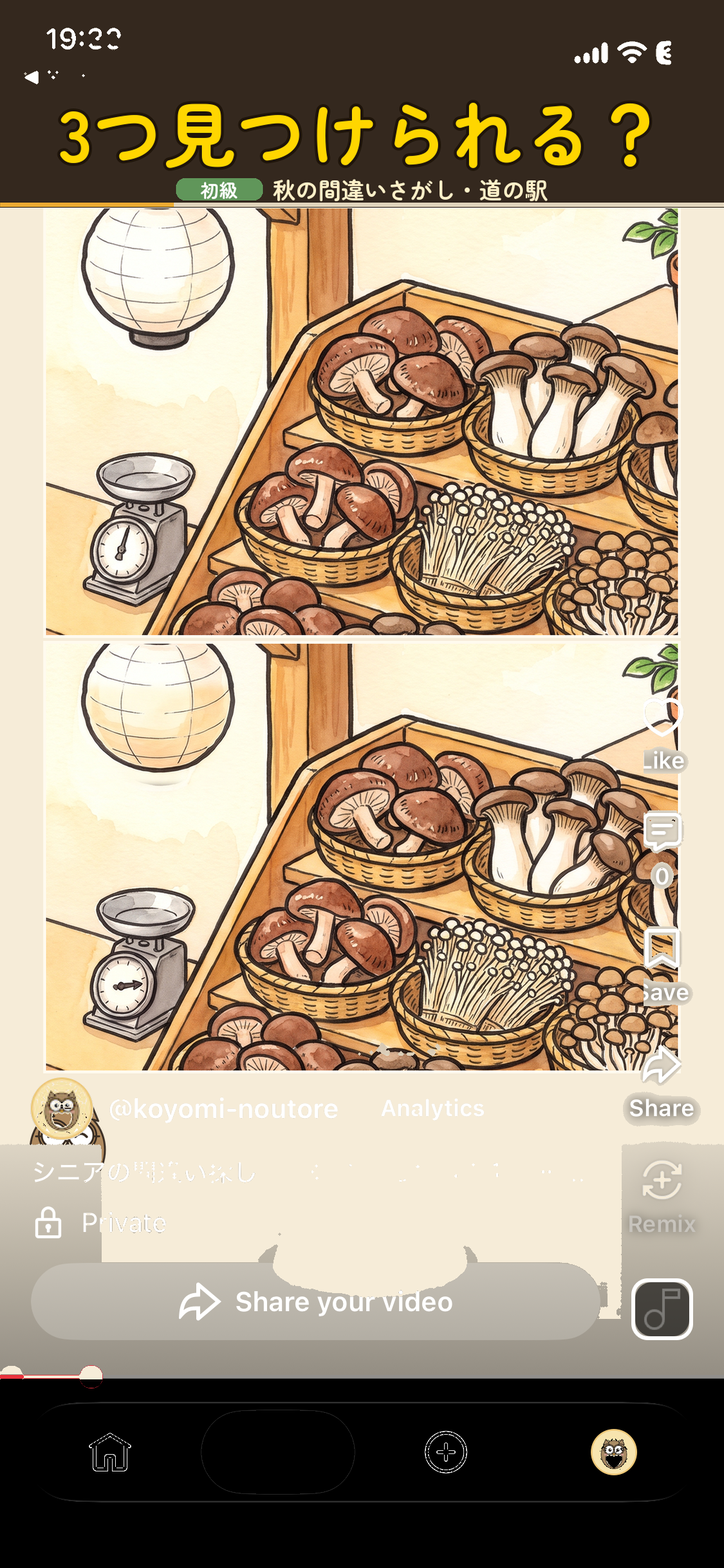
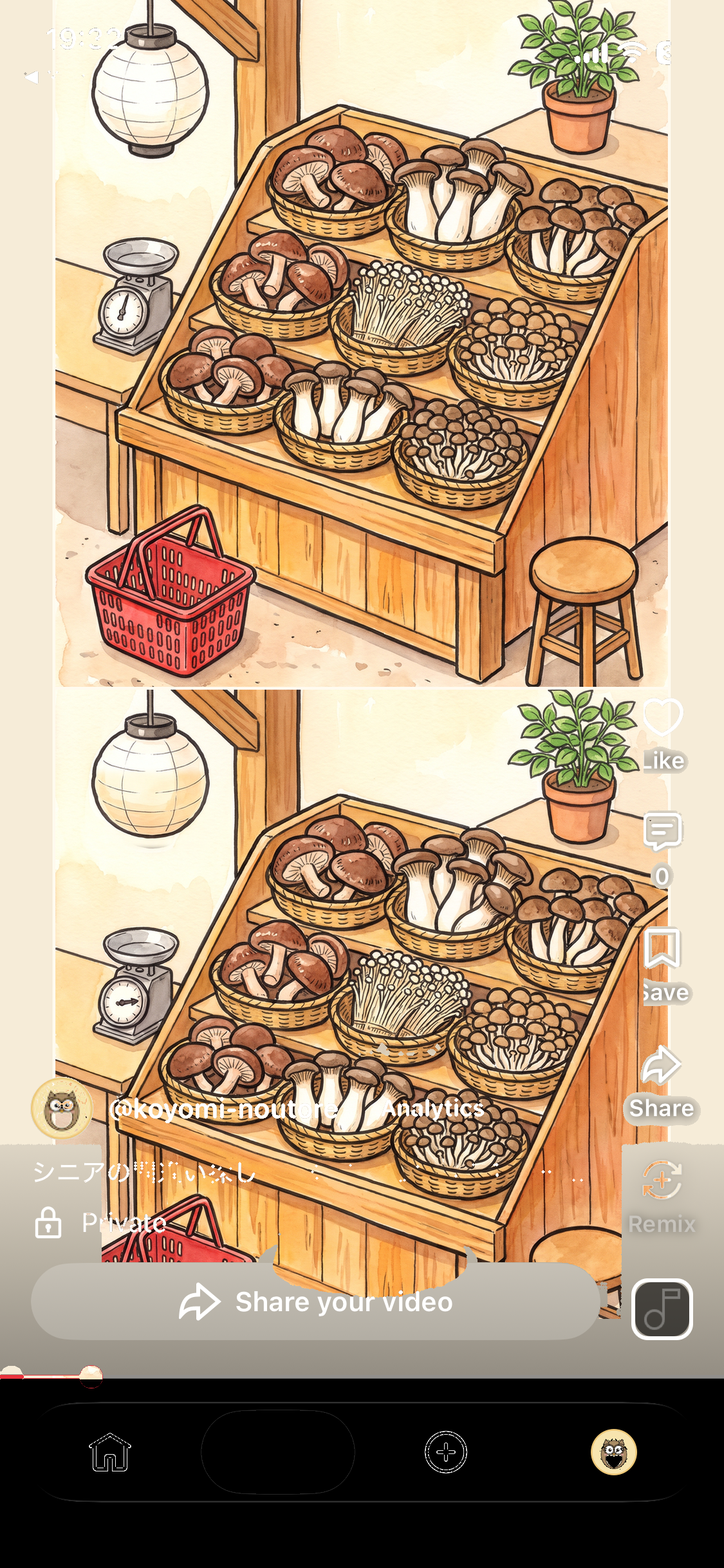
ショートの画面の作りを初期の形に戻す（2026-11-18 夜 CEO決定・最新）：絵だけ・最初と最後に暗い幕と大きな文字。第8回「道の駅」の試作
Claude-Session: https://claude.ai/code/session_01RF3BnfrPSRk1U21VXW6Yry

diff --git a/scripts/ep_short.py b/scripts/ep_short.py
@@ -22,16 +22,19 @@ W, H, FPS = 1080, 1920, 30
 BG = (246, 236, 216)
 INK = (59, 47, 37)
 RED = (220, 30, 30)
-# 画面の作り（shorts.md「ショートの画面の作り（2026-11-18 夜 改訂）」）：iPhone（19.5:9）で高さいっぱいに表示され、左右が約36px切れ、上の約120pxに時刻が重なる
+# 画面の作り（shorts.md「ショートの画面の作り（2026-11-18 夜 CEO決定・最新）」）：初期の形（第1回の台所）に戻す。
+# 画面は絵だけ（上の文字の帯・こよみ先生・アイコンなし）。絵は2枚を上下に、画面に収まる範囲でいっぱい、左右中央。
+# 最初と最後だけ、画面全体に半透明の暗い幕をかけ、ど真ん中に大きな文字。文字は左右36px・上120pxにかからない。
 EDGE_X, TOP_UI = 36, 120
-TEXT_TOP, TEXT_BOTTOM = 120, 280          # 上の文字（問題文）は y 120〜280 に大きく中央
-PIC_TOP, PIC_BOTTOM = 290, 1490           # 絵は y 290 から。下のタイトル・右のボタンには重なってよい。こよみ先生（左下）の上で止める
-PIC_MAXW, GAP = 880, 12                   # 絵の幅は約860〜900px、左右中央
-# 絵の大きさと切り抜きは問ごとに setup で決める（違い3つが入る範囲で横長に切り抜く）
-PW, PH, PX = PIC_MAXW, 590, (W - PIC_MAXW) // 2
-YS = {"a": PIC_TOP, "b": PIC_TOP + 590 + GAP}
+PH = H // 2                  # 8:9 の絵を上下2枚で高さいっぱい（960）
+PW = PH * 8 // 9             # 853
+PX = (W - PW) // 2
+YS = {"a": 0, "b": PH}
 CROP = None
-BAND_H = TEXT_BOTTOM
+VEIL_ALPHA = int(255 * 0.55)  # 暗い幕の不透明度（50〜60%）
+INTRO_VEIL = 3.6              # 最初の幕を出す秒（数秒で消す）
+HOOK = "1分で脳トレ"          # 最初の幕の訴求の一言（読み上げない）
+TEXT_MAXW = 800               # 幕の上の文字の幅の上限（中央 x140〜940。右のいいね等のボタンにかからない）
 LEVEL_COLOR = {"やさしい": (70, 140, 190), "初級": (96, 150, 90), "中級": (214, 128, 48), "上級": (176, 62, 52)}
 SR = 48000
 
@@ -40,9 +43,6 @@ DEFAULT = {"solve": 25.0, "intro_at": 0.3, "answer_gap": 3.2, "end_len": 8.0,
            # 2026-11-18 CEO指示（shorts.md）：どこを押すか具体的に言い、矢印で関連動画のリンクの位置を示す
            "end": "続きは長い動画で。左下をクリックして、挑戦してみてくださいね。",
            "end_title": "続きは 長い動画で", "end_sub": "左下を クリック！"}
-# こよみ先生は左下（x 約40〜220、y 約1500〜1680）に、最初から最後まで（shorts.md 2026-11-18 夜 改訂）
-OWL_SIZE = 160
-OWL_XY = (50, 1510)
 TEXT_CX = W / 2
 LINK_XY = (190, 1760)      # 関連動画のリンク（左下、y 約1700〜1800）。矢印の先
 
@@ -197,29 +197,8 @@ def setup(ep, work, fontp):
     CTX["Q"] = ans
     CTX["voice"] = json.loads((Path(work) / SUB / "voice.json").read_text(encoding="utf-8"))
     CTX["lines"], CTX["end_at"], CTX["total"] = lines(ep)
-    global PW, PH, PX, YS, CROP
-    # 違い3つが入る範囲（＋余白）を、表示の枠（幅 PIC_MAXW・高さは2枚で PIC_TOP〜PIC_BOTTOM）の縦横比で横長に切り抜く
-    cx0, cy0, cx1, cy1 = ans["content_px"]
-    bx = [a_["box_px"] for a_ in ans["answers"]]
-    m = 90
-    x0, y0 = max(cx0, min(b_[0] for b_ in bx) - m), max(cy0, min(b_[1] for b_ in bx) - m)
-    x1, y1 = min(cx1, max(b_[2] for b_ in bx) + m), min(cy1, max(b_[3] for b_ in bx) + m)
-    maxh = (PIC_BOTTOM - PIC_TOP - GAP) // 2
-    asp = PIC_MAXW / maxh
-    w, h = x1 - x0, y1 - y0
-    if w / h < asp:
-        w = min(cx1 - cx0, h * asp)
-    else:
-        h = min(cy1 - cy0, w / asp)
-    mx, my = (x0 + x1) / 2, (y0 + y1) / 2
-    X0 = min(max(cx0, mx - w / 2), cx1 - w); Y0 = min(max(cy0, my - h / 2), cy1 - h)
-    CROP = (int(X0), int(Y0), int(X0 + w), int(Y0 + h))
-    if w / h >= asp:
-        PW, PH = PIC_MAXW, int(round(PIC_MAXW * h / w))
-    else:
-        PH, PW = maxh, int(round(maxh * w / h))
-    PX = (W - PW) // 2
-    YS = {"a": PIC_TOP, "b": PIC_TOP + PH + GAP}
+    global CROP
+    CROP = tuple(ans["content_px"])      # 絵は切り抜かずに全体を出す
     pics = {}
     for side in "ab":
         im = Image.open(Path(ep) / f"q{q}_{side}.png").convert("RGB").crop(CROP)
@@ -229,9 +208,9 @@ def setup(ep, work, fontp):
         base.paste(pics[side], (PX, y))
         ImageDraw.Draw(base).rectangle((PX - 4, y - 4, PX + PW + 3, y + PH + 3), outline=(255, 250, 238), width=4)
     CTX["base"] = base
-    owl = Path(work) / "owl" / "koyomi_smile.png"
-    CTX["owl"] = Image.open(owl).convert("RGBA").resize((300, 300), Image.LANCZOS) if owl.exists() else None
-    CTX["owl_s"] = CTX["owl"].resize((OWL_SIZE, OWL_SIZE), Image.LANCZOS) if CTX["owl"] else None
+    # 幕の上の大きな文字は、サムネと同じ太い角ゴシック（Noto Sans CJK JP Black）
+    import thumb_v3
+    CTX["bold"] = thumb_v3.F
 
 
 def circle_box(a, side):
@@ -268,47 +247,48 @@ def current_sub(t):
     return None
 
 
+def bold(size):
+    return ImageFont.truetype(CTX["bold"], size)
+
+
+def veil(im, lines, alpha, arrow_t=None):
+    """画面全体に半透明の暗い幕をかけ、ど真ん中に大きな文字を出す。lines = [(文字, 大きさ, 色), ...]。"""
+    layer = Image.new("RGBA", (W, H), (0, 0, 0, int(VEIL_ALPHA * alpha)))
+    ld = ImageDraw.Draw(layer)
+    a = int(255 * alpha)
+    hs = [sz for _, sz, _ in lines]
+    total = sum(hs) + 40 * (len(lines) - 1)
+    y = H / 2 - total / 2
+    for s_, sz, colr in lines:
+        f = bold(sz)
+        while ld.textlength(s_, font=f) > TEXT_MAXW:      # 左右36pxと、右のボタン（x900〜）にかからないように
+            sz -= 4; f = bold(sz)
+        cy = y + sz / 2
+        ld.text((W / 2, cy), s_, font=f, fill=colr + (a,), anchor="mm", stroke_width=6, stroke_fill=(0, 0, 0, a))
+        CTX.setdefault("drawn", []).append(("文字:" + s_, ld.textbbox((W / 2, cy), s_, font=f, anchor="mm", stroke_width=6)))
+        y += sz + 40
+    im = Image.alpha_composite(im.convert("RGBA"), layer)
+    if arrow_t is not None and alpha > 0.9:   # 左下の関連動画のリンクを指す矢印（ゆっくり動かして目を引く）
+        d2 = ImageDraw.Draw(im)
+        wig = 14 * math.sin(2 * math.pi * arrow_t / 1.0)
+        tx, ty = LINK_XY[0] + 50 + wig * 0.7, LINK_XY[1] - 40 + wig * 0.7
+        sx, sy = 560, 1280
+        ang = math.atan2(ty - sy, tx - sx)
+        hx, hy = tx - 90 * math.cos(ang), ty - 90 * math.sin(ang)
+        px, py = -math.sin(ang), math.cos(ang)
+        for wdt, col in ((46, (255, 255, 255)), (30, (230, 60, 30))):
+            d2.line((sx, sy, hx, hy), fill=col, width=wdt)
+            e = wdt / 30
+            d2.polygon([(tx + 8 * (e - 1) * math.cos(ang), ty + 8 * (e - 1) * math.sin(ang)),
+                        (hx + 54 * e * px, hy + 54 * e * py), (hx - 54 * e * px, hy - 54 * e * py)], fill=col)
+    return im.convert("RGB")
+
+
 def render(t):
     c = cfg()
     Q = CTX["Q"]
     im = CTX["base"].copy()
     d = ImageDraw.Draw(im)
-    drawn = CTX.setdefault("drawn", [])    # 文字を書いた範囲（安全な範囲の判定に使う）
-    def text(xy, s, f, **kw):
-        d.text(xy, s, font=f, **kw)
-        drawn.append(("文字:" + s, d.textbbox(xy, s, font=f, anchor=kw.get("anchor"), stroke_width=kw.get("stroke_width", 0))))
-    # 上の文字（y 120〜280 に大きく中央。時刻の帯 y<120 と左右36pxには入れない）
-    d.rectangle((0, 0, W, TEXT_BOTTOM + 8), fill=(52, 40, 30))
-    sub = current_sub(t) if t < CTX["end_at"] else None
-    if sub:
-        ls = wrap2(sub, 15)
-        size = 64 if len(ls) == 1 else 58
-        cy = (TEXT_TOP + TEXT_BOTTOM) / 2
-        for i, l in enumerate(ls):
-            y = cy + (i - (len(ls) - 1) / 2) * (size + 12)
-            text((TEXT_CX, y), l, font(size), fill=(255, 255, 255), anchor="mm")
-    else:
-        text((TEXT_CX, 182), "3つ見つけられる？", font(100), fill=(255, 214, 0), anchor="mm", stroke_width=4, stroke_fill=(30, 20, 10))
-        col = LEVEL_COLOR[Q["level"]]
-        cap = f"秋の間違いさがし・{Q['scene']}"
-        fcap = font(32)
-        wcap = d.textlength(cap, font=fcap)
-        bx = TEXT_CX - (120 + 14 + wcap) / 2
-        by = 248
-        d.rounded_rectangle((bx, by, bx + 120, by + 30), 12, fill=col)
-        drawn.append(("難易度の札", (bx, by, bx + 120, by + 30)))
-        text((bx + 60, by + 15), Q["level"], font(26), fill=(255, 255, 255), anchor="mm")
-        text((bx + 134, by + 15), cap, fcap, fill=(255, 240, 200), anchor="lm")
-    # 残り時間のバー（帯の下）
-    if t < c["solve"]:
-        frac = max(0.0, 1 - t / c["solve"])
-        rem = c["solve"] - t
-        col = (110, 180, 100) if rem > 10 else (236, 170, 50) if rem > 5 else (230, 70, 60)
-        d.rectangle((EDGE_X, TEXT_BOTTOM + 2, W - EDGE_X, TEXT_BOTTOM + 7), fill=(225, 212, 188))
-        d.rectangle((EDGE_X, TEXT_BOTTOM + 2, EDGE_X + int((W - 2 * EDGE_X) * frac), TEXT_BOTTOM + 7), fill=col)
-        if rem <= 5:
-            d.text((PX + PW - 20, YS["a"] + 20), str(math.ceil(rem - 1e-6)), font=font(96), fill=(230, 70, 60), anchor="ra",
-                   stroke_width=5, stroke_fill=(255, 255, 255))
     # 答え合わせ（上下の絵の両方に赤丸、番号札）
     shown = [i for i, v in enumerate(v for v in CTX["voice"] if v["id"].startswith("s_ans") and v["id"] != "s_ans0")
              if t >= [v for v in CTX["voice"] if v["id"] == f"s_ans{i + 1}"][0]["start"]]
@@ -316,45 +296,25 @@ def render(t):
         a = Q["answers"][i]
         for side in "ab":
             x0, y0, x1, y1 = circle_box(a, side)
-            d.ellipse((x0 - 9, y0 - 9, x1 + 9, y1 + 9), outline=(255, 255, 255), width=10)
-            d.ellipse((x0 - 6, y0 - 6, x1 + 6, y1 + 6), outline=RED, width=6)
+            d.ellipse((x0 - 10, y0 - 10, x1 + 10, y1 + 10), outline=(255, 255, 255), width=12)
+            d.ellipse((x0 - 7, y0 - 7, x1 + 7, y1 + 7), outline=RED, width=8)
     for i in shown:
         a = Q["answers"][i]
         for side in "ab":
             x0, y0, x1, y1 = circle_box(a, side)
-            bx, by = min(max(x1 + 4, PX + 22), PX + PW - 22), min(max(y0 - 4, YS[side] + 22), YS[side] + PH - 22)
-            d.ellipse((bx - 22, by - 22, bx + 22, by + 22), fill=RED, outline=(255, 255, 255), width=3)
-            d.text((bx, by + 1), str(i + 1), font=font(30), fill=(255, 255, 255), anchor="mm")
-    # 長尺への案内
+            bx, by = min(max(x1 + 4, PX + 26), PX + PW - 26), min(max(y0 - 4, YS[side] + 26), YS[side] + PH - 26)
+            d.ellipse((bx - 26, by - 26, bx + 26, by + 26), fill=RED, outline=(255, 255, 255), width=3)
+            d.text((bx, by + 1), str(i + 1), font=font(34), fill=(255, 255, 255), anchor="mm")
+    # 最初：暗い幕と、ど真ん中の大きな文字（数秒で消す）
+    if t < INTRO_VEIL:
+        k = 1.0 if t < INTRO_VEIL - 0.5 else max(0.0, (INTRO_VEIL - t) / 0.5)
+        im = veil(im, [("違いは3つ", 170, (255, 214, 0)), ("見つけられますか？", 104, (255, 255, 255)),
+                       (c.get("hook", HOOK), 84, (255, 160, 120))], k)
+    # 最後：暗い幕の上に「続きは長い動画で」「左下をクリック」と、左下を指す矢印
     e0 = CTX["end_at"]
     if t >= e0:
         k = min(1.0, (t - e0) / 0.5)
-        layer = Image.new("RGBA", (W, H), (246, 236, 216, int(235 * k)))
-        ld = ImageDraw.Draw(layer)
-        a = int(255 * k)
-        for (y, s_, sz, colr) in ((560, c["end_title"], 80, INK), (700, c["end_sub"], 80, (176, 62, 52)), (820, "こよみ先生のまいにち脳トレ", 46, (110, 84, 60))):
-            ld.text((TEXT_CX, y), s_, font=font(sz), fill=colr + (a,), anchor="mm")
-            CTX.setdefault("drawn", []).append(("文字:" + s_, ld.textbbox((TEXT_CX, y), s_, font=font(sz), anchor="mm")))
-        im.paste(layer, (0, 0), layer)
-        # 左下の関連動画のリンクを指す矢印（ゆっくり動かして目を引く）
-        if t >= e0 + 0.5:
-            d2 = ImageDraw.Draw(im)
-            wig = 14 * math.sin(2 * math.pi * (t - e0) / 1.0)
-            tx, ty = LINK_XY[0] + 50 + wig * 0.7, LINK_XY[1] - 40 + wig * 0.7     # 矢印の先
-            sx, sy = 560, 1100                                                  # 矢印の根元
-            ang = math.atan2(ty - sy, tx - sx)
-            hx, hy = tx - 90 * math.cos(ang), ty - 90 * math.sin(ang)
-            px, py = -math.sin(ang), math.cos(ang)
-            for wdt, col in ((44, (255, 255, 255)), (28, (214, 80, 40))):
-                d2.line((sx, sy, hx, hy), fill=col, width=wdt)
-                e = wdt / 28
-                d2.polygon([(tx + 8 * (e - 1) * math.cos(ang), ty + 8 * (e - 1) * math.sin(ang)),
-                            (hx + 52 * e * px, hy + 52 * e * py), (hx - 52 * e * px, hy - 52 * e * py)], fill=col)
-    # こよみ先生（最初から最後まで、上の帯の左側。2026-11-18 第9回から）
-    if CTX["owl_s"] is not None:
-        o = CTX["owl_s"]
-        bob = int(5 * math.sin(2 * math.pi * t / 1.6))
-        im.paste(o, (OWL_XY[0], OWL_XY[1] + bob), o)
+        im = veil(im, [("続きは長い動画で", 116, (255, 255, 255)), ("左下をクリック", 128, (255, 214, 0))], k, arrow_t=t - e0)
     return im
 
 
@@ -411,49 +371,28 @@ def phone_mock(frame):
 
 
 def safe_check(ep, work, fontp=None):
-    """画面の作りの判定（shorts.md「ショートの画面の作り（2026-11-18 夜 改訂）」）：
-    - 文字とこよみ先生が、左右の端（36px）と上の時刻の帯（120px）にかからないこと
-    - 絵が左右中央にあり、左右の端で切れないこと
-    確認画像：<回>/<short>/phone_question.png（出題中）・phone_end.png（最後の呼びかけ）に実機の画面を重ねたもの、
-    compare_competitor1.png（お手本と並べたもの）。"""
+    """画面の作りの判定（shorts.md「2026-11-18 夜 CEO決定・最新」）：幕の上の文字が左右36px・上120pxにかからないこと。
+    確認画像（実機の画面の部品を重ねたもの）：<回>/<short>/phone_intro.png（最初の幕）・phone_question.png（出題中）・phone_end.png（最後）。"""
     if "base" not in CTX:
         setup(ep, work, fontp or CTX.get("font"))
     CTX["drawn"] = []
     c = cfg()
-    tq, te = c["solve"] - 6, CTX["total"] - 0.5
-    times = [max(0.5, CTX["voice"][0]["start"] + 0.5), tq] + [v["start"] + 0.3 for v in CTX["voice"]] + [te]
-    frames = {t: render(t) for t in times}
-    boxes = [b_ for b_ in CTX["drawn"]]
-    boxes.append(("こよみ先生", (OWL_XY[0], OWL_XY[1] - 5, OWL_XY[0] + OWL_SIZE, OWL_XY[1] + OWL_SIZE + 5)))
+    ti, tq, te = 1.5, c["solve"] - 6, CTX["total"] - 0.5
+    frames = {t: render(t) for t in (ti, tq, te)}
     problems, seen = [], set()
-    for name, (x0, y0, x1, y1) in boxes:
+    for name, (x0, y0, x1, y1) in CTX["drawn"]:
         bad = []
         if x0 < EDGE_X or x1 > W - EDGE_X:
             bad.append("左右の端（36px）")
         if y0 < TOP_UI:
             bad.append("上の時刻の帯（120px）")
-        if bad and (name, round(x0), round(y0)) not in seen:
-            seen.add((name, round(x0), round(y0)))
+        if bad and name not in seen:
+            seen.add(name)
             problems.append(f"{name} が{'・'.join(bad)}にかかる（{x0:.0f},{y0:.0f}〜{x1:.0f},{y1:.0f}）")
-    if abs(PX + PW / 2 - W / 2) > 2:
-        problems.append(f"絵が左右中央にない（中心 x{PX + PW / 2:.0f}）")
-    if PX < EDGE_X or PX + PW > W - EDGE_X:
-        problems.append(f"絵が左右の端で切れる（x{PX}〜{PX + PW}）")
-    if not 860 <= PW <= 900:
-        problems.append(f"絵の幅 {PW}px が目安（約860〜900px）の外")
     out = Path(ep) / SUB
     out.mkdir(parents=True, exist_ok=True)
-    pq, pe = phone_mock(frames[tq]), phone_mock(frames[te])
-    pq.save(out / "phone_question.png"); pe.save(out / "phone_end.png")
-    comp = Path(__file__).resolve().parent.parent / "departments/production/reference/shorts_ref_competitor1.png"
-    if comp.exists():
-        cimg = Image.open(comp).convert("RGB").resize((PHONE_W, PHONE_H))
-        sheet = Image.new("RGB", (PHONE_W * 2 + 40, PHONE_H + 120), (255, 255, 255))
-        sheet.paste(pq, (0, 120)); sheet.paste(cimg, (PHONE_W + 40, 120))
-        dd = ImageDraw.Draw(sheet)
-        dd.text((PHONE_W / 2, 60), "こよみ先生（今回）", font=font(64), fill=INK, anchor="mm")
-        dd.text((PHONE_W * 1.5 + 40, 60), "お手本（競合 1）", font=font(64), fill=INK, anchor="mm")
-        sheet.resize((sheet.width // 2, sheet.height // 2), Image.LANCZOS).save(out / "compare_competitor1.png")
+    for t, nm in ((ti, "phone_intro.png"), (tq, "phone_question.png"), (te, "phone_end.png")):
+        phone_mock(frames[t]).save(out / nm)
     return problems, out / "phone_question.png"
 
 
